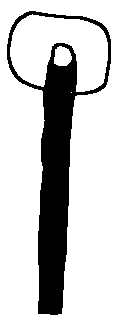
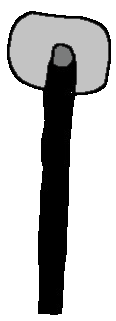
gamplay now is fun (dying, restarting)

Changed region(s): [[0.0776, 0.0312, 0.9569, 0.3115]]

diff --git a/tt_src/src/main.ts b/tt_src/src/main.ts
@@ -1,5 +1,13 @@
 // eslint-disable-next-line @typescript-eslint/no-unused-vars
-import { Application, Assets, Graphics, HTMLText, Sprite } from "pixi.js";
+import {
+  Application,
+  Assets,
+  Graphics,
+  HTMLText,
+  Sprite,
+  Texture,
+  TilingSprite,
+} from "pixi.js";
 // @ts-expect-error I don't know how this works, but it works
 // eslint-disable-next-line @typescript-eslint/no-unused-vars
 import { Level } from "./level";
@@ -15,15 +23,28 @@ window.addEventListener("keydown", (e) => {
 window.addEventListener("keyup", (e) => {
   pressedKeys.delete(e.code);
 });
-
-(async () => {
+init();
+async function init() {
   // Create a new application
+
+  // @ts-expect-error I don't know how this works, but maybe it works
+  globalThis.__PIXI_APP__?.destroy();
   const app = new Application();
   // @ts-expect-error I don't know how this works, but it works
   globalThis.__PIXI_APP__ = app as Application;
   await app.init({ background: "#fff", resizeTo: window });
   document.getElementById("pixi-container")!.appendChild(app.canvas);
-
+  const tilingSprite = new TilingSprite({
+    texture: await Assets.load("/assets/background.png"),
+    width: app.screen.width,
+    height: app.screen.height,
+  });
+  tilingSprite.anchor.set(0.5);
+  tilingSprite.position.set(app.screen.width / 2, app.screen.height / 2);
+  tilingSprite.tileScale.set(1);
+  app.stage.addChild(tilingSprite);
+  tanks.length = 0;
+  crates.length = 0;
   tanks.push(
     new Tank(
       "/assets/tankred.png",
@@ -37,6 +58,7 @@ window.addEventListener("keyup", (e) => {
         action: "Space",
       },
       "/assets/bulletRed1.png",
+      -0.25 * Math.PI,
     ),
   );
   tanks.push(
@@ -52,23 +74,23 @@ window.addEventListener("keyup", (e) => {
         action: "Backquote",
       },
       "/assets/bulletBlue1.png",
+      0.75 * Math.PI,
     ),
   );
   for (let index = 0; index < 10; index++) {
-    crates.push(new Obstacle("/assets/crateWood.png", app as Application));
+    crates.push(new Obstacle("/assets/crate.png", app as Application));
     crates[index].setPosition(
       Math.random() * app.screen.width,
       Math.random() * app.screen.height,
     );
   }
-  tanks[0].setPosition(app.screen.width / 2, app.screen.height / 2);
-  tanks[1].setPosition(app.screen.width / 2, app.screen.height / 2);
+  tanks[0].setPosition(64, 64);
+  tanks[1].setPosition(app.screen.width - 64, app.screen.height - 64);
   tanks[0].enemy = tanks[1];
   tanks[1].enemy = tanks[0];
 
   app.ticker.add((time) => {
     ui(app);
-    console.log(Array.from(pressedKeys));
     tanks[0].tick(time.deltaTime, pressedKeys);
     tanks[1].tick(time.deltaTime, pressedKeys);
     // collision detection
@@ -102,16 +124,16 @@ window.addEventListener("keyup", (e) => {
       }
     }
   });
-})();
+}
 
-function ui(app: Application) {
+async function ui(app: Application) {
   // Remove previous healthbars
   app.stage
     .getChildrenByLabel("healthbar")
     .forEach((child) => app.stage.removeChild(child));
 
   // Draw healthbars for each tank
-  tanks.forEach((tank, i) => {
+  for (const tank of tanks) {
     const barWidth = 60;
     const barHeight = 8;
     const healthPercent = Math.max(0, Math.min(1, tank.health / 100));
@@ -132,5 +154,24 @@ function ui(app: Application) {
     bar.x = tank.position.x;
     bar.y = tank.position.y;
     app.stage.addChild(bar);
-  });
+    if (tank.health <= 0) {
+      const explosion = new Sprite(await Assets.load("/assets/explosion.png"));
+      explosion.anchor.set(0.5);
+      explosion.position.set(tank.position.x, tank.position.y);
+      explosion.zIndex = 2;
+      app.stage.addChild(explosion);
+      const element = document.createElement("div");
+      element.className = "game-over";
+      element.innerHTML = `<h1>Game Over</h1><p>${tank.color} tank has been destroyed!</p><button onclick="location.reload()">Restart Game</button>`;
+      element.style.position = "absolute";
+      element.style.top = "50%";
+      element.style.left = "50%";
+      element.style.transform = "translate(-50%, -50%)";
+      element.style.zIndex = "1000";
+      document.getElementById("pixi-container")!.appendChild(element);
+      app.ticker.addOnce(() => {
+        app.ticker.stop();
+      });
+    }
+  }
 }

diff --git a/tt_src/src/tank.ts b/tt_src/src/tank.ts
@@ -22,6 +22,7 @@ export class Tank {
     right: string;
     action: string;
   };
+  color: string; // default color
   mode: boolean = true; // true = tank, false = turret
   stuff: { [key: string]: boolean | string } = {};
   app: Application;
@@ -46,15 +47,17 @@ export class Tank {
       action: "",
     },
     bulletTexture: string,
+    rotation: number, // 135 degrees in radians
   ) {
     this.app = app;
 
     this.keybinds = keybinds;
     this.position = { x: 0, y: 0 };
-    this.rotation = 0;
+    this.rotation = rotation;
     this.bodyTexture = bodyTexture;
     this.barrelTexture = barrelTexture;
     this.bulletTexture = bulletTexture;
+    this.color = bodyTexture.split("k")[1].split(".")[0];
     this.body = new Sprite();
     this.barrel = new Sprite();
     this.body.anchor.set(0.5, 0.535);
@@ -137,15 +140,34 @@ export class Tank {
     }
     if (pressedKeys.has(this.keybinds.action)) {
       if (this.stuff.switch) {
-        this.mode = !this.mode;
-        this.stuff.switch = false;
-        console.log("Mode switched to", this.mode ? "tank" : "turret");
-        if (this.mode) {
-          this.fire();
+        switch (this.mode) {
+          case true:
+            if (this.fireCooldown <= 0) {
+              console.log("Mode switched to turret");
+              this.body.alpha = 0.5;
+              this.mode = false;
+              this.stuff.switch = false;
+            }
+            break;
+          case false:
+            this.fireCooldown = 90;
+            console.log("Mode switched to tank");
+            this.body.alpha = 1;
+            this.mode = true;
+            this.stuff.switch = false;
+            this.fire();
+            break;
         }
       }
     } else {
       this.stuff.switch = true;
+    }
+    if (this.fireCooldown > 0) {
+      this.fireCooldown -= deltaTime;
+      console.log("Fire cooldown:", this.fireCooldown);
+      this.barrel.alpha = 0.5;
+    } else {
+      this.barrel.alpha = 1;
     }
     if (this.position.x < 0) {
       this.changePosition(1, 0);

diff --git a/tt_src/src/bulle.ts b/tt_src/src/bulle.ts
@@ -37,7 +37,7 @@ export class Bullet {
     app.stage.sortableChildren = true;
     this.sprite.texture = this.texture as Texture;
     console.log("Bullet created with texture:", this.texture);
-    this.sprite.setSize(5);
+    this.sprite.setSize(10);
   }
   async loadTextures() {
     this.texture = await Assets.load(this.texture);

diff --git a/tt_src/src/obstacle.ts b/tt_src/src/obstacle.ts
@@ -29,7 +29,7 @@ export class Obstacle {
     app.stage.addChild(this.body);
     this.body.zIndex = 0;
     app.stage.sortableChildren = true;
-    this.body.setSize(2);
+    this.body.setSize(0.7);
   }
   async loadTextures() {
     this.bodyTexture = await Assets.load(this.bodyTexture);
